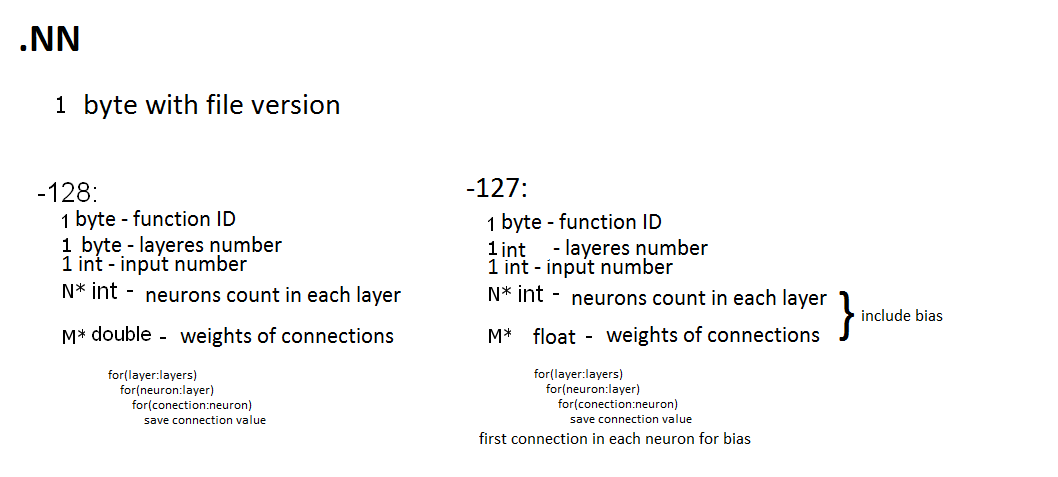
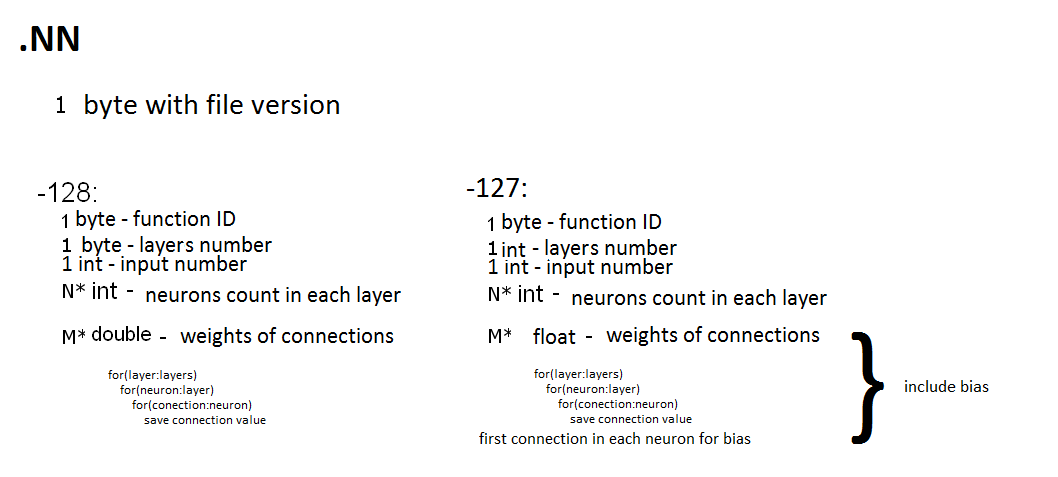
Add some get-Methods, and updating File format reader/writer to -127 .NN file version

Changed region(s): [[0.7798, 0.6164, 0.9357, 0.9392], [0.4991, 0.499, 0.6862, 0.5577], [0.156, 0.499, 0.2807, 0.5283]]

diff --git a/Liblaries NNOCL/src/liblaries/neuralNetwork/symulation/FileS.java b/Liblaries NNOCL/src/liblaries/neuralNetwork/symulation/FileS.java
@@ -12,27 +12,33 @@ public class FileS {
 	public static Network readNetwork(String fileName) throws IOException{
 		DataInputStream in=new DataInputStream(new FileInputStream(fileName+".NN"));
 		
+		Function function;
+		int layersNumber;
+		int inputNumber;
+		int[] layersSize;
 		float[][][] weights;
+		
 		byte version=in.readByte();
 		switch(version){
 		case -128:
-			Function function=FunctionList.getFunction(in.readByte());
+			function=FunctionList.getFunction(in.readByte());
 			
-			byte layersNumber=in.readByte();
-			int inputNumber=in.readInt();
+			layersNumber=in.readByte();
+			inputNumber=in.readInt();
 			
-			int[] layersSize=new int[layersNumber];
+			layersSize=new int[layersNumber];
 			
 			weights=new float[layersNumber][][];
-			for(byte i=0;i<layersNumber;i++){
+			for(byte i=0;i<layersNumber;i++){								//Size of each layer
 				layersSize[i]=in.readInt();
 				weights[i]=new float[layersSize[i]][];
 			}
 			
 			for(int j=0;j<layersSize[0];j++){
 				weights[0][j]=new float[inputNumber];
+				weights[0][j][0]=0f;
 				for(int k=0;k<inputNumber;k++){
-					weights[0][j][k]=(float) in.readDouble();
+					weights[0][j][k+1]=(float) in.readDouble();
 				}
 			}
 			
@@ -41,10 +47,47 @@ public class FileS {
 					weights[i]=new float[layersSize[i]][];
 					
 					for(int j=0;j<layersSize[i];j++){
-						weights[i][j]=new float[layersSize[i-1]];
+						weights[i][j]=new float[layersSize[i-1]+1];
 						
+						weights[i][j][0]=0f;
 						for(int k=0;k<layersSize[i-1];k++){
-							weights[i][j][k]=(float) in.readDouble();
+							weights[i][j][k+1]=(float) in.readDouble();
+						}
+					}
+				}
+			}
+			in.close();
+			return new Network(inputNumber,weights,function);
+		case -127:
+			function=FunctionList.getFunction(in.readByte());
+			
+			layersNumber=in.readInt();
+			inputNumber=in.readInt();
+			
+			layersSize=new int[layersNumber];
+			
+			weights=new float[layersNumber][][];
+			for(byte i=0;i<layersNumber;i++){								//Size of each layer
+				layersSize[i]=in.readInt();
+				weights[i]=new float[layersSize[i]][];
+			}
+			
+			for(int j=0;j<layersSize[0];j++){
+				weights[0][j]=new float[inputNumber];
+				for(int k=0;k<inputNumber+1;k++){
+					weights[0][j][k]=in.readFloat();
+				}
+			}
+			
+			if(layersNumber>1){
+				for(byte i=1;i<layersNumber;i++){
+					weights[i]=new float[layersSize[i]][];
+					
+					for(int j=0;j<layersSize[i];j++){
+						weights[i][j]=new float[layersSize[i-1]+1];
+						
+						for(int k=0;k<weights[i][j].length;k++){
+							weights[i][j][k]=in.readFloat();
 						}
 					}
 				}
@@ -53,7 +96,7 @@ public class FileS {
 			return new Network(inputNumber,weights,function);
 		default :
 			in.close();
-			throw new FileVersionException("Don't support file verion newer then -128. This file version: "+version);
+			throw new FileVersionException("Don't support file verion newer then -127. This file version: "+version);
 		}
 	}
 }

diff --git a/Liblaries NNOCL/src/liblaries/neuralNetwork/errors/NeuralException.java b/Liblaries NNOCL/src/liblaries/neuralNetwork/errors/NeuralException.java
@@ -3,13 +3,13 @@ package liblaries.neuralNetwork.errors;
 public class NeuralException extends RuntimeException{
 	private static final long serialVersionUID = -5734111472592152319L;
 	
-	//error ID's											//TODO NN sort error flags
+	//error ID's
 	public static final int invalidClear=0; 				//Throwed when you try to clear network data not necessery for GPU calculation without inintiate openCL
 	public static final int learningMemChange=1;			//Throwed when you try to change eg. weights of network during learning. First stop learning
 	public static final int invalidLS=2;					//Throwed when inputs/outputs number of learning sequence is diffrend than network inputs/outputs number
-	public static final int learningInProgress=3;			//Throwed when you try start second learning when first is not finished, or set network durnig learning
+	public static final int learningInProgress=3;			//Throwed when you try start second learning when first is not finished, or set teacher's network durnig learning, or save network duriong learning
 	
-	int errorID;
+	private int errorID;
 	
 	public NeuralException(int errorID) {
 		super(errorIDToString(errorID));
@@ -23,5 +23,9 @@ public class NeuralException extends RuntimeException{
 		case learningInProgress:return "Can't start new lerning when previus isn't finished";
 		default :return "Unknow error";
 		}
+	}
+	
+	public int getIntErrorID() {
+		return errorID;
 	}
 }

diff --git a/Liblaries NNOCL/src/liblaries/neuralNetwork/symulation/Network.java b/Liblaries NNOCL/src/liblaries/neuralNetwork/symulation/Network.java
@@ -19,7 +19,7 @@ import liblaries.neuralNetwork.errors.NeuralException;
 import liblaries.neuralNetwork.functions.Function;
 
 public class Network{
-	private float[][][] weights;				//Input layer ID=0			[a][b][c] a->layer, b->neuron, c->connection
+	private float[][][] weights;				//Input layer ID=0			[a][b][c] a->layer, b->neuron, c->connection		//First connection in each neuron is bias
 	private float[][] outputs;
 	
 	private int inputNumber;

diff --git a/Liblaries NNOCL/src/liblaries/neuralNetwork/learning/LNetwork.java b/Liblaries NNOCL/src/liblaries/neuralNetwork/learning/LNetwork.java
@@ -296,6 +296,9 @@ public class LNetwork{
 	public final boolean isOpenCLLoaded() {
 		return openCLLoaded;
 	}
+	public final boolean isLearnning() {
+		return learning;
+	}
 	
 	public void startLearning() {
 		if(!learning) {

diff --git a/Liblaries NNOCL/src/liblaries/neuralNetwork/learning/Teacher.java b/Liblaries NNOCL/src/liblaries/neuralNetwork/learning/Teacher.java
@@ -105,6 +105,11 @@ public class Teacher{
 			throw new NeuralException(3);
 	}
 	
+	public LNetwork getNetwork() {
+		return network;
+	}
+	
+	
 	public LNetwork teach() throws NeuralException{
 		network.startLearning();
 		
